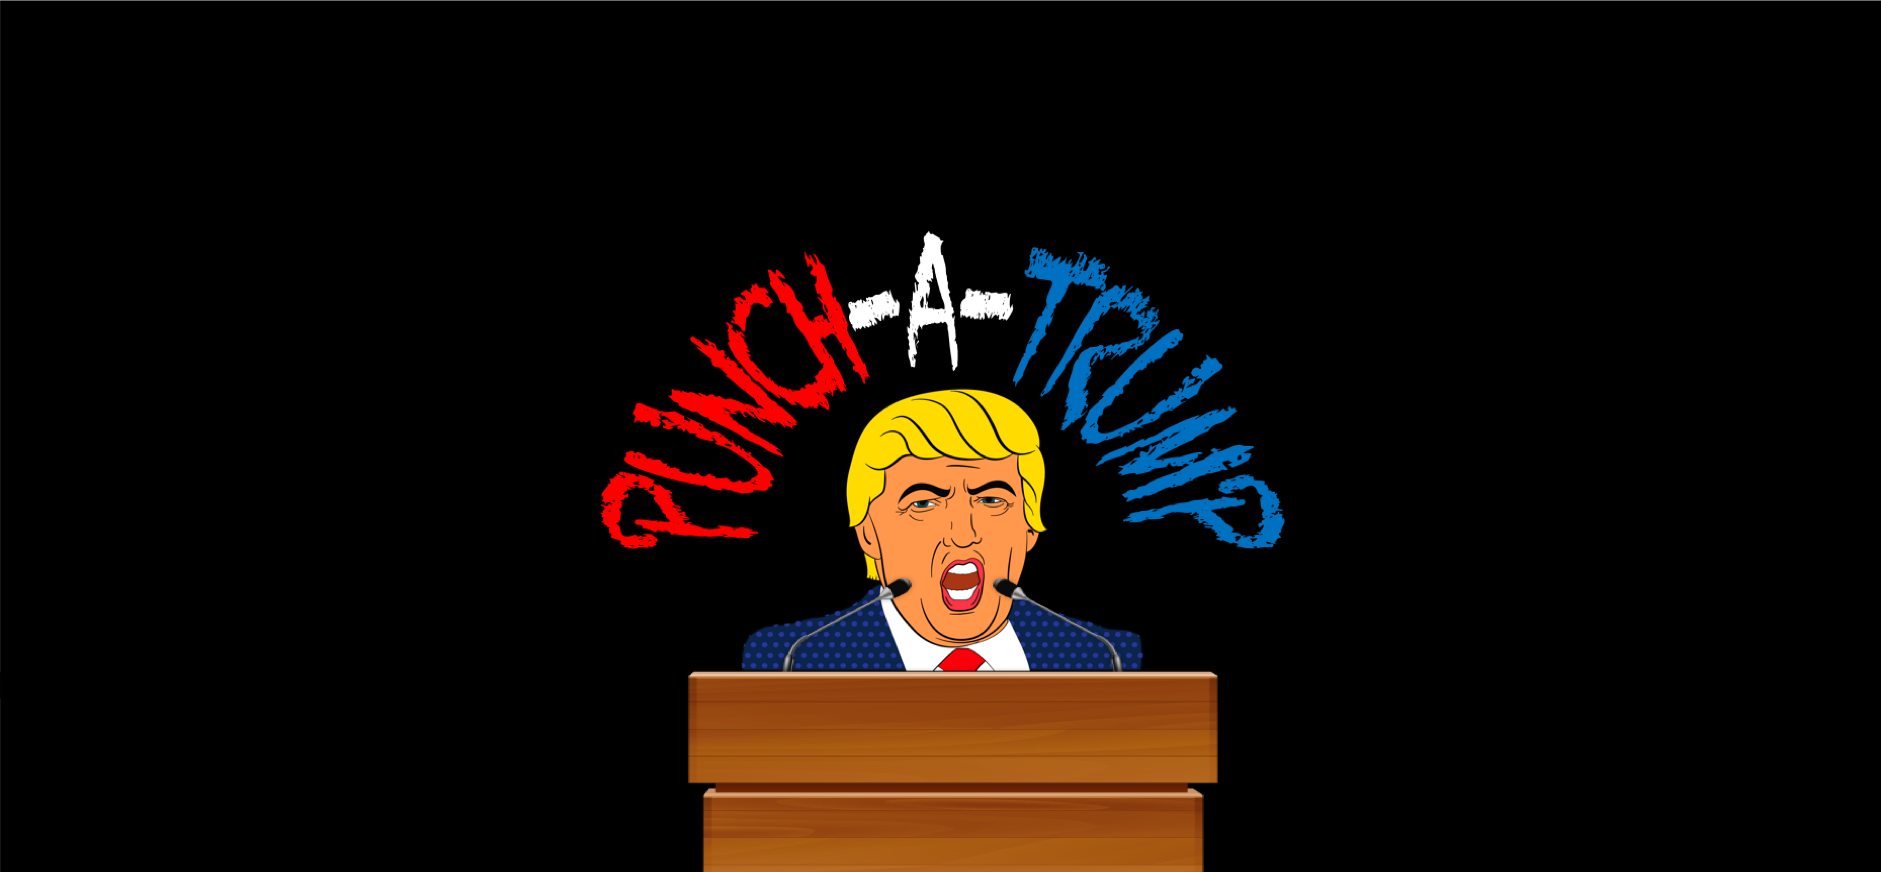
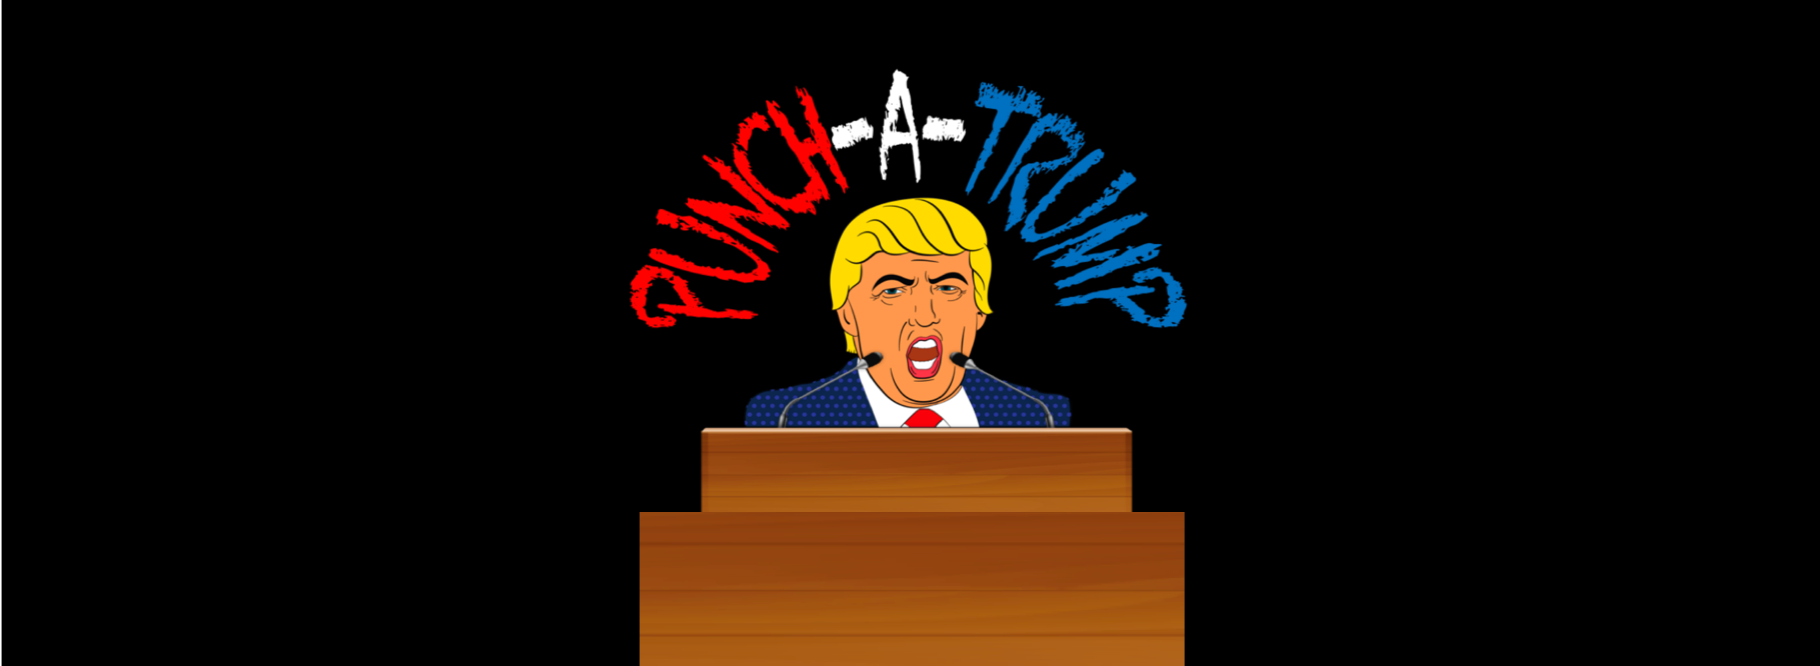
Updated Trump Game

Changed region(s): [[0.3077, 0.1201, 0.7077, 1.0]]

diff --git a/index.html b/index.html
@@ -446,7 +446,7 @@
                                     <img class="img-responsive" src="images/portfolio-image-03.jpg" alt="sample image">
                                     <div class="item-desc">
                                         <div class="link">
-                                            <a class="mypopup-link" href="images/portfolio-image-03.jpg"><i class="fa fa-camera"></i></a> <a href="#"><i class="fa fa-link"></i></a>
+                                            <a class="mypopup-link" href="images/portfolio-image-03.jpg"><i class="fa fa-camera"></i></a> <a href="http://www.alexandre-dohrmann.com/punch-a-trump/" target="_blank"><i class="fa fa-link"></i></a>
                                         </div>
                                         <div class="text">
                                             <h4 class="title">Punch-A-Trump</h4>
@@ -454,15 +454,15 @@
                                         </div>
                                     </div>
                                 </div>
-                                <!-- <div class="filtr-item" data-category="2" data-sort="In production">
+                                <div class="filtr-item" data-category="1" data-sort="In production">
                                     <img class="img-responsive" src="images/portfolio-image-04.jpg" alt="sample image">
                                     <div class="item-desc">
                                         <div class="link">
-                                            <a class="mypopup-link" href="images/portfolio-image-04.jpg"><i class="fa fa-camera"></i></a> <a href="#"><i class="fa fa-link"></i></a>
+                                            <a class="mypopup-link" href="images/portfolio-image-04.jpg"><i class="fa fa-camera"></i></a> <a href="http://www.alexandre-dohrmann.com/tamagotchi/" target="_blank"><i class="fa fa-link"></i></a>
                                         </div>
                                         <div class="text">
-                                            <h4 class="title">Web Development Project</h4>
-                                            <p class="client">Client: John Smith</p>
+                                            <h4 class="title">Simple Tamagotchi</h4>
+                                            <p class="client">HTML, CSS, & JavaScript Mini-Project</p>
                                         </div>
                                     </div>
                                 </div>
@@ -525,7 +525,7 @@
                                             <p class="client">Client: John Smith</p>
                                         </div>
                                     </div>
-                                </div> -->
+                                </div>
                             </div>
                         </div>
                     </div>
@@ -639,7 +639,7 @@
         <!--  News Area Ended -->
 
         <!-- Contact Area Starts -->
-        <!-- <section id="contact" class="contact-area section-padding">
+        <section id="contact" class="contact-area section-padding">
             <div class="container">
                 <div class="row">
 
@@ -682,7 +682,7 @@
                     </div>
                 </div>
             </div>
-        </section> -->
+        </section>
         <!--  Area Ended -->
 
         <!-- Footer Area Starts -->

diff --git a/punch-a-trump/css/style.css b/punch-a-trump/css/style.css
@@ -3,8 +3,8 @@
 	background-image: url("../images/black-circle.png");
 	background-size: cover;
 	display: inline-block;
-	height: 250px;
-	width: 250px;
+	height: 100px;
+	width: 100px;
 }
 
 .game-board {
@@ -13,25 +13,25 @@
 
 .meter {
 	font-family: 'Oswald', sans-serif;
-	font-size: 50px;
+	font-size: 20px;
 	color: white;
 }
 
 .meter-name-p1, .meter-name-p2, .p1, .p2 {
 	font-family: 'Frijole', cursive;
-	font-size: 80px;
+	font-size: 40px;
 	color: red;
 }
 
 .meter-round, .meter-score {
 	font-family: 'Oswald', sans-serif;
-	font-size: 50px;
+	font-size: 20px;
 	color: white;
 }
 
 .round-number, .time-left-p1, .time-left-p2, .score-p1, .rounds-won-p1, .score-p2, .rounds-won-p2 {
 	font-family: 'Oswald', sans-serif;
-	font-size: 50px;
+	font-size: 20px;
 	color: red;
 }
 
@@ -39,7 +39,7 @@
 	display: table;
 	width: 100%;
 	margin-bottom: 200px;
-	margin-top: 0px;
+	margin-top: -50px;
 }
 .game-background {
 	background-repeat: no-repeat;
@@ -49,7 +49,7 @@
 
 header.masthead {
   margin-bottom: 0px;
-  background: no-repeat center center;
+  background: top no-repeat;
   position: relative;
   -webkit-background-size: cover;
   -moz-background-size: cover;
@@ -61,7 +61,7 @@ header.masthead {
 
 @media only screen and (min-width: 768px) {
   header.masthead {		
-    padding: 250px 0;
+    padding: 100px 0;
   }
 }	
 
@@ -69,6 +69,7 @@ header.masthead {
 	width: 50%;
 	position: absolute;
 	left: 0px;
+	margin-left: 15px;
 	text-align: left;
 }
 
@@ -76,11 +77,12 @@ header.masthead {
 	width: 50%;
 	position: absolute;
 	right: 0px;
+	margin-right: 15px;
 	text-align: right;
 }
 button.begin, .next-player, .next-round, .refresh {
 	font-family: 'Boogaloo', cursive;
-	font-size: 40px;
+	font-size: 30px;
 	background-color: blue;
 	border-radius: 20px;
 	border: 2px solid black;
@@ -98,8 +100,8 @@ button.begin, .next-player, .next-round, .refresh {
 	background-image: url("../images/trump1.png");
 	background-size: cover;
 	background-repeat: no-repeat;
-	height: 250px;
-	width: 250px;
+	height: 100px;
+	width: 100px;
 
 }
  body {
@@ -110,7 +112,7 @@ button.begin, .next-player, .next-round, .refresh {
 
 h3 {
 	font-family: 'Oswald', sans-serif;
-	font-size: 50px;
+	font-size: 30px;
 	color: red;
 }
 
@@ -127,5 +129,5 @@ h3 {
 }
 
 .dizzyTrump {
-	padding-top: : -100px;
+	padding-top: -100px;
 }
